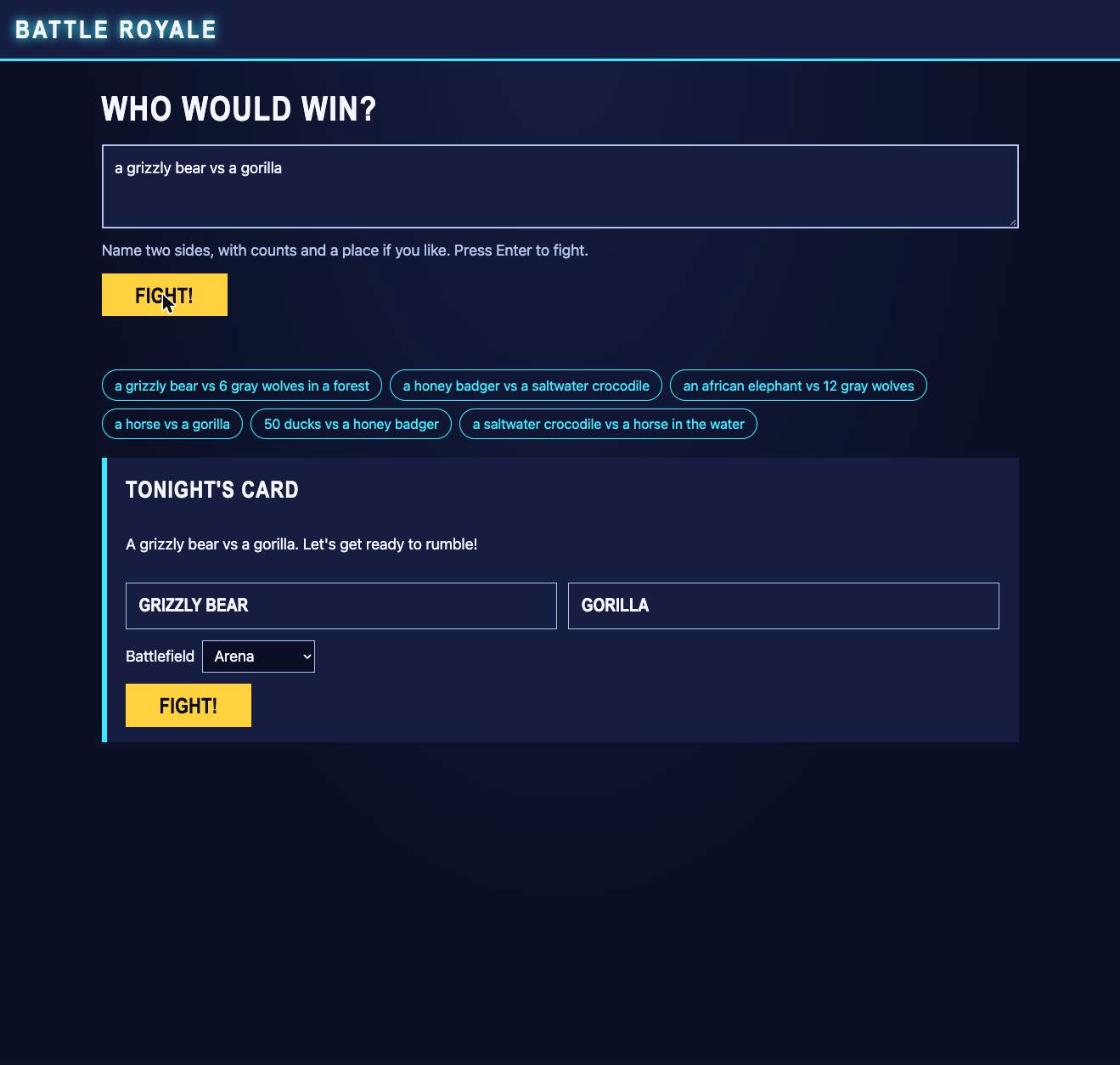
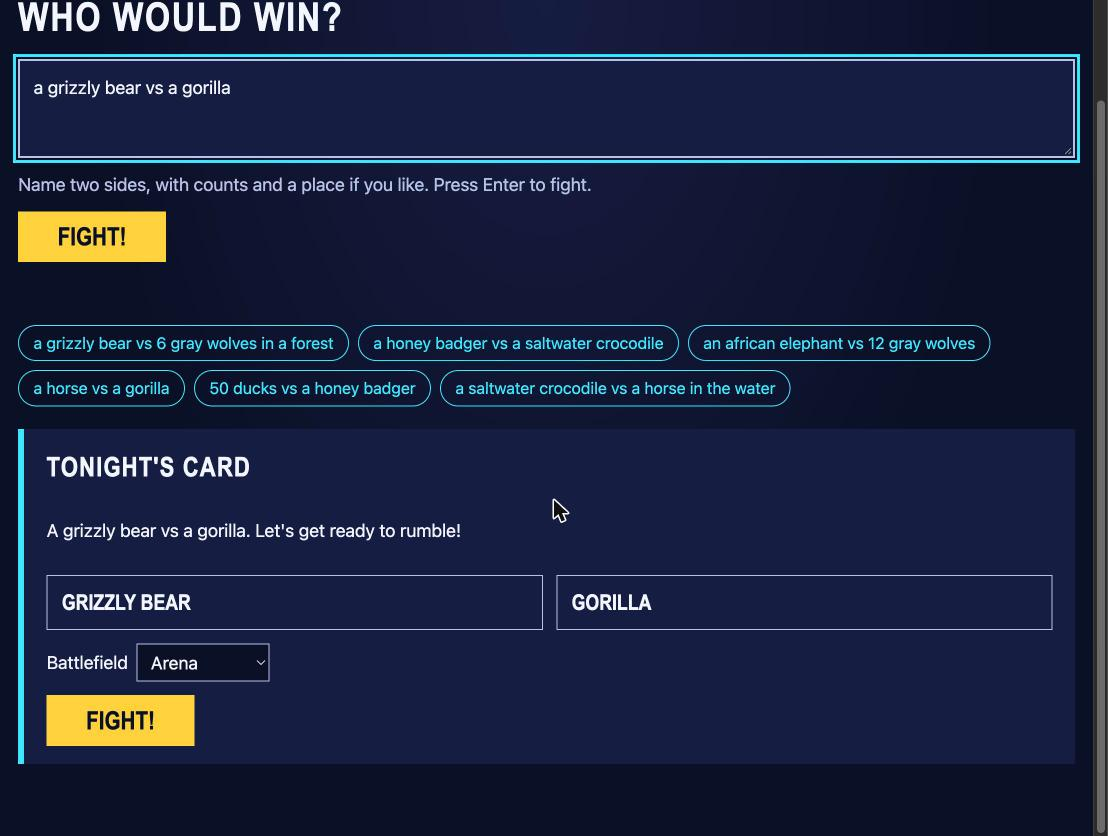
Finalize the MS-1 build log entry on main at cb41095 (#179)
Restamp the entry from today's main: MS-1 is met on mocks, list what
landed Nov 13-14 and what is still in review, add D-56, note the known
gorilla-bite issue (#260), and replace both screenshots with fresh ones.

diff --git a/docs/build-log.md b/docs/build-log.md
@@ -94,16 +94,18 @@ Started 2026-11-08 by Mike with Claude Code (Opus 5.5).
 
 ## Milestones
 
-### MS-1 walking skeleton (due Sat Nov 14), started Nov 10, final on Nov 14
+### MS-1 walking skeleton (due Sat Nov 14), started Nov 11, final on Nov 14
 
-- **What works (Nov 12, evening; `main` at 70d0169):**
-  - **MS-1 status:** both gaps from Nov 10 have landed: the A05 stub path that starts a battle and returns a verdict on mocks (#197) and the intake API with its one clarifying question (D08, #158). **Confirmed on Nov 12:** running the app on `main` at 70d0169 in mock mode, "a grizzly bear vs a gorilla" gives the parsed fight card, all nine pipeline stages finish, and the Battle page shows the verdict and links to the full Results page (screenshots below).
-  - **Built:** the engine (F02–F06, F08 and the tournament bracket; F07, the benchmark runner, is still a draft), with swarm mode now matching the one-by-one engine (#106), venom resolved after the fight (#107) and a proof that more fighters never hurt above the swarm threshold (#108). The live-tested intake parser (A02, #137, #140) and its follow-ups (#147, #231, #236, #237, #239), the first part of the A04 safety gate (#152) and a mock safety classifier for offline demos (#241). The pipeline's stage graph with time budgets, its next-challenger stage, and battle persistence with a repeat-battle cache (A05, #199, #200, #203). Narration part 1: the number guard, the fact list and the template scripts (A06, #216, #217, #218) with the number-guard and fair-fight wording fixes (#252, #253), and `script_kind` on narration assets (#247). The knowledge base with retrieval and reranking (G02, G03, #150), the benchmark matchup set and pass rules (G07, #129), the seed ingest with Wikidata, PanTHERIA and AnimalTraits facts (#190, #196), the stat-sheet builder without model extraction (G04 part 1, #232) and 14 hand-verified seed sheets (G05, most recently the king cobra and Roman legionary, #243, and the African lion, bulldozer and bald eagle, #254). Fighter sprites and battlefield images (A08, #248). The app shell and intake page with its outage and expired-question messages (D02, D03, #207), the wired Results page (D04, #127, #128), the Phaser battle stage with replay controls (D05, #121, #123), and the broadcast Battle page with caption sync, sound controls and degraded modes (D07, #187, #188).
-  - **Approved or in review, not on `main` yet:** the announcer LLM writer (A06 part 2, #244, approved), the house cat, the 15th and last seed sheet (#257, approved), swarm mode chosen by work (D-50 build, #193, changes requested), and the rest of A04 (draft #156 and the stacked drafts #161, #164, #165 and #185; #185 closes #27).
+- **What works (Nov 14; `main` at cb41095):**
+  - **MS-1 status: met.** Running the app on `main` at cb41095 in mock mode (`npm start`), "a grizzly bear vs a gorilla" gives the parsed fight card, all nine pipeline stages finish, the Phaser stage plays the fight to its end banner, and the Battle page shows the verdict and links to the full Results page with the cited tale of the tape (screenshots below). No errors in the browser console or the server log. The script stage ends "fallback" on mocks by design: the mock play-by-play has no canned reply, so the template play-by-play, which follows the real fight log, is used. First confirmed on Nov 12 at 70d0169, after the A05 stub path (#197) and the intake API with its one clarifying question (D08, #158) landed.
+  - **Known issue:** the gorilla wins 79% because its 3,420 N bite is a modeled molar maximum compared with the grizzly's canine bite (#260; ruled: use the code's carnivore fit, about 1,016 N).
+  - **Built by Nov 12:** the engine (F02–F06, F08 and the tournament bracket; F07, the benchmark runner, is still a draft), with swarm mode now matching the one-by-one engine (#106), venom resolved after the fight (#107) and a proof that more fighters never hurt above the swarm threshold (#108). The live-tested intake parser (A02, #137, #140) and its follow-ups (#147, #231, #236, #237, #239), the first part of the A04 safety gate (#152) and a mock safety classifier for offline demos (#241). The pipeline's stage graph with time budgets, its next-challenger stage, and battle persistence with a repeat-battle cache (A05, #199, #200, #203). Narration part 1: the number guard, the fact list and the template scripts (A06, #216, #217, #218) with the number-guard and fair-fight wording fixes (#252, #253), and `script_kind` on narration assets (#247). The knowledge base with retrieval and reranking (G02, G03, #150), the benchmark matchup set and pass rules (G07, #129), the seed ingest with Wikidata, PanTHERIA and AnimalTraits facts (#190, #196), the stat-sheet builder without model extraction (G04 part 1, #232) and 14 hand-verified seed sheets (G05, most recently the king cobra and Roman legionary, #243, and the African lion, bulldozer and bald eagle, #254). Fighter sprites and battlefield images (A08, #248). The app shell and intake page with its outage and expired-question messages (D02, D03, #207), the wired Results page (D04, #127, #128), the Phaser battle stage with replay controls (D05, #121, #123), and the broadcast Battle page with caption sync, sound controls and degraded modes (D07, #187, #188).
+  - **Built Nov 13–14:** the announcer LLM writer, wired into the pipeline (A06 part 2, #244, #261), with number words in fighter names ignored by the number guard (#262), an honest "template commentary" notice (#272), narration that matches each broadcast phase (#268), and announcer audio and music through the mock providers (#276). The house cat, so all 15 seed sheets are on `main` (G05, #257). Model stat extraction with verified quotes (G04 part 2, #266). The 12 mythical creature types and brand-safe media names (G09, #264, #291). Seed trait rows loaded from the team's Hugging Face dataset (G02, #288). A showcase dry run on the real seed sheets (#282). On the front end: why a battle failed, on the Battle and Results pages (#265); crowd replay logs only in fixtures mode (#267); a skip link and per-page tab titles (#275); a tighter API client (#278); and the whole winning side named in the end banner (#286). A shared pluralizer (#263, #273), and waiting for a fresh database instead of failing with "locked" (#298).
+  - **Approved or in review, not on `main` yet:** the stat-sheet builder in battles and `/api/fighters` (G04 part 3, #269), mythical creature sheets from their analogs and on demand (G09, #274, #293), the showcase export and startup import (G08 part 1, #295), the pinned team dataset (#292), and the one-word answer splice (#297). Swarm mode chosen by work (D-50 build, #193, changes requested). Drafts: the rest of A04 (#156 and the stacked #161, #164, #165 and #185; #185 closes #27), the F07 benchmark runner (#72), and the first-time user guide (D09, #294).
 - **What changed from the plan:**
   - **D-41:** the chat model extracts stats; port 9010 only answers decisions.
   - **D-42/D-44:** venom is modeled and resolved after the fight (built in #107).
-  - **D-43:** dragon-vs-tank calibration waits for G09's real dragon sheet; no changes to breath damage or machine hit points until then.
+  - **D-43:** dragon-vs-tank calibration waits for G09's real dragon sheet (in review in #274); no changes to breath damage or machine hit points until then.
   - **D-45:** swarm mode matches the one-by-one engine (built in #106).
   - **D-46:** plain-slug fighter IDs, two dataset licenses, derived machine values.
   - **D-47:** seed-sheet labeling rules.
@@ -114,6 +116,7 @@ Started 2026-11-08 by Mike with Claude Code (Opus 5.5).
   - **D-52:** the intake budget is about 7 s typical with a 25 s limit, not 3 s.
   - **D-53:** a published arm length counts as reach; an arm span alone doesn't.
   - **D-54:** the king cobra may have 4 estimates and the Roman legionary 3.
-  - **D-55:** the house cat may have 3 estimates, a kill hold isn't fighting endurance, and the image-style templates may stay in code (in review in #256).
+  - **D-55:** the house cat may have 3 estimates, a kill hold isn't fighting endurance, and the image-style templates may stay in code.
+  - **D-56:** fighter loadouts and progression are post-MVP, and raising `HIT_SPEED_EXP` is declined for now.
   - **The board:** the "PR linked → In review" automation was turned on (#172).
-- **Screenshots (Nov 12, mocks):** [the parsed fight card](media/ms1-tonights-card.jpg) and [the verdict on the Battle page](media/ms1-verdict.jpg).
+- **Screenshots (Nov 14, mocks, `main` at cb41095):** [the parsed fight card](media/ms1-tonights-card.jpg) and [the verdict on the Battle page](media/ms1-verdict.jpg).
